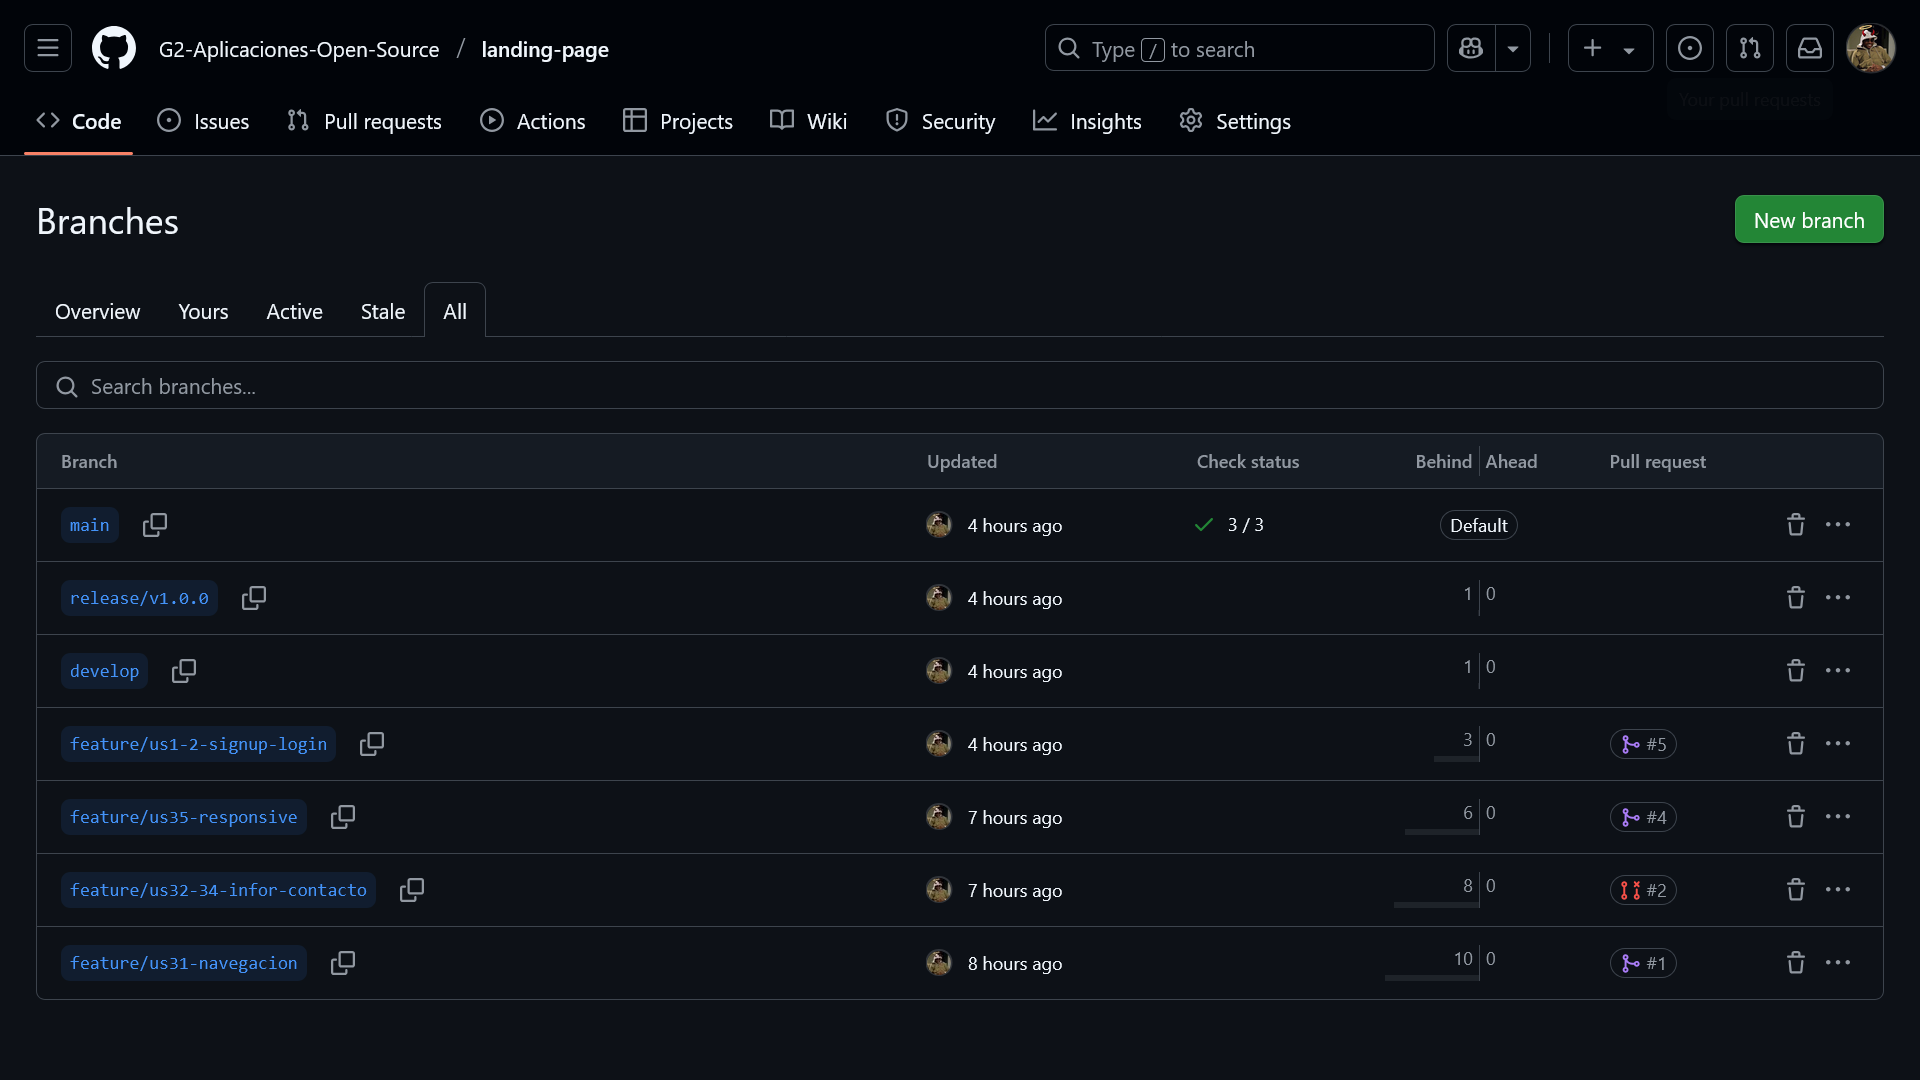
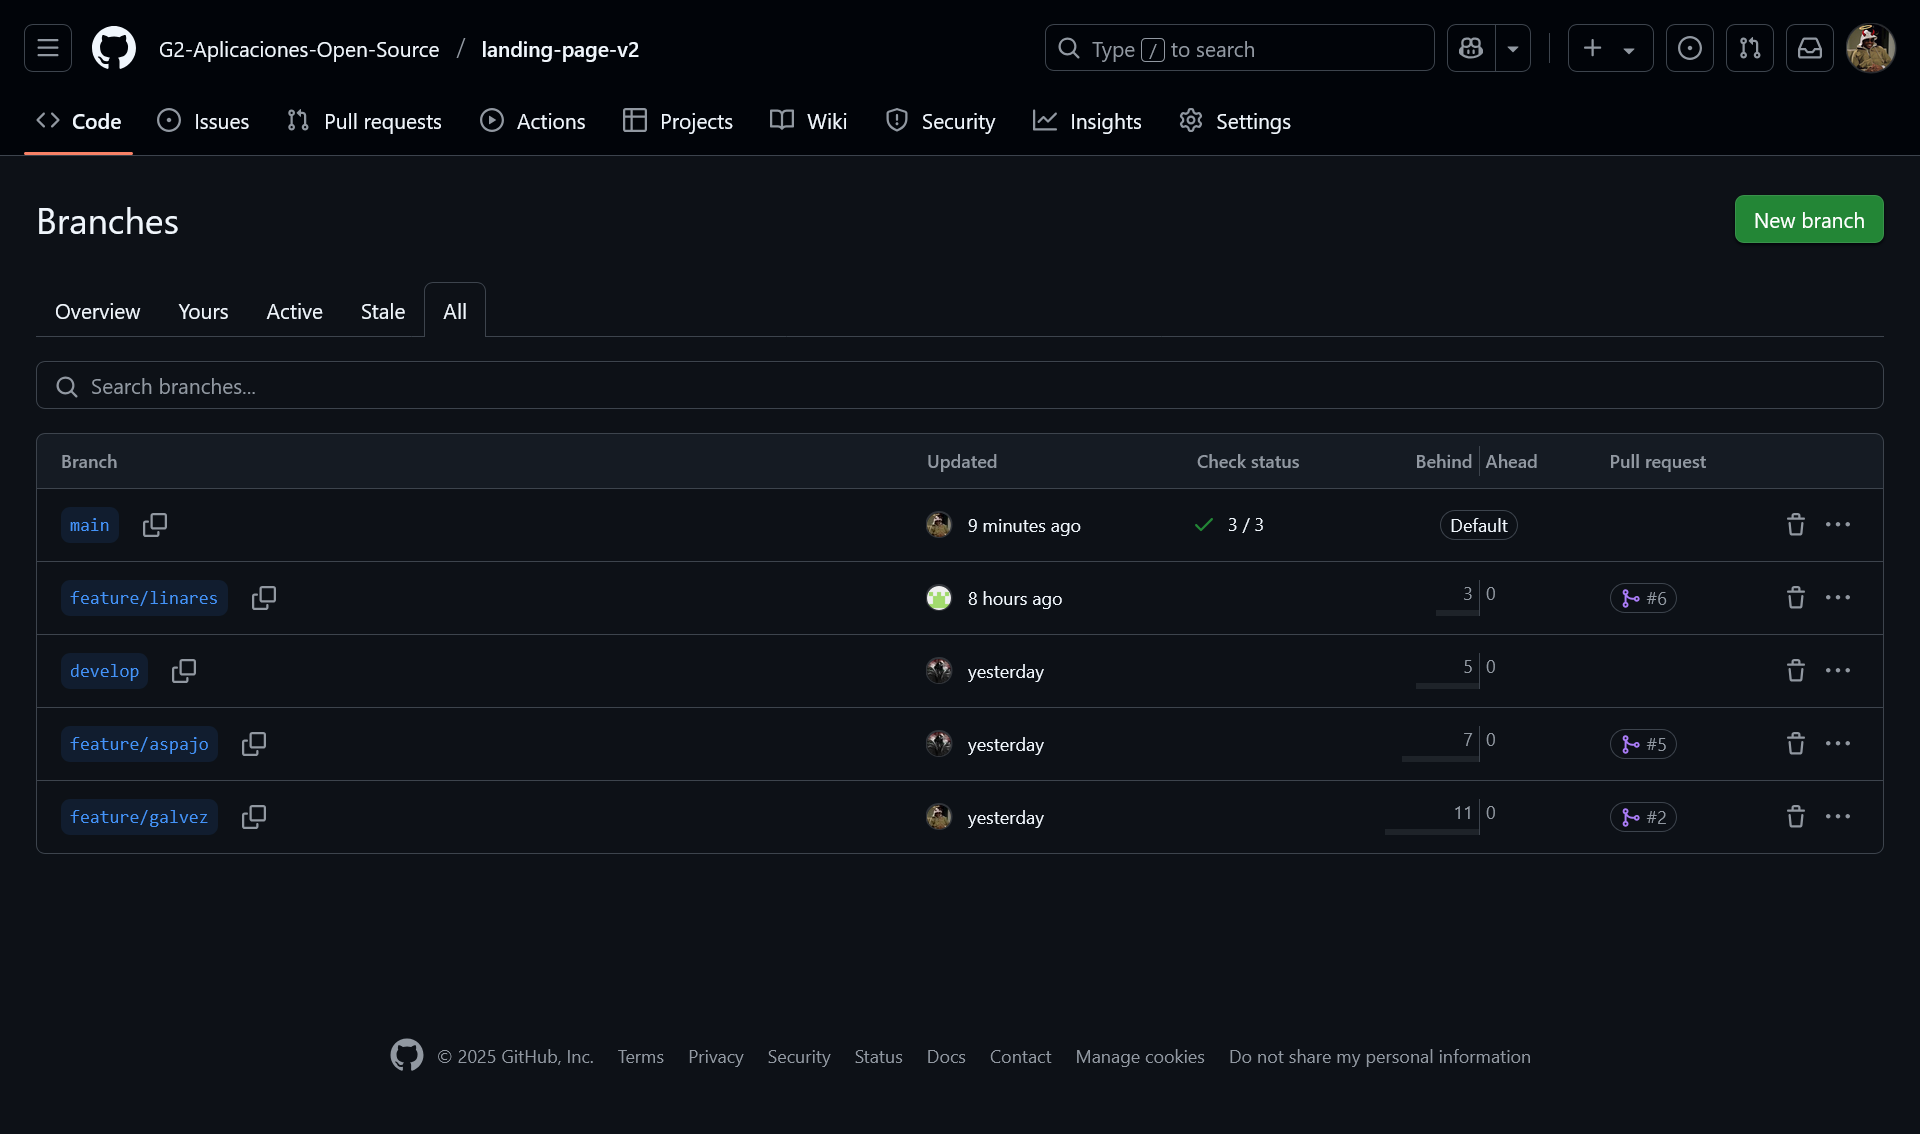
feat: cambios finales TB1

diff --git a/README.md b/README.md
@@ -98,14 +98,17 @@ Nuestro Project Report se encuentra en el siguiente repositorio de GitHub:
             <img src="assets/evidencias/cap3-branch-commits.png" alt="cap3-branch-commits" width=60% >
         </p>
         <p align="center">
-            <img src="assets/evidencias/" alt="cap4-branch-commits" width=60% >
+            <img src="assets/evidencias/cap4-branch-commits.png" alt="cap4-branch-commits" width=60% >
         </p>
         <p align="center">
-            <img src="assets/evidencias/" alt="cap5-branch-commits" width=60% >
+            <img src="assets/evidencias/cap5-branch-commits.png" alt="cap5-branch-commits" width=60% >
         </p>        
         - Analítica del repositorio con participación de todos los miembros:
         <p align="center">
-            <img src="assets/evidencias/repo-members.png" alt="repo-analytics" width=60% >
+            <img src="assets/evidencias/repo-docs-analytics.png" alt="repo-analytics" width=60% >
+        </p> 
+        <p align="center">
+            <img src="assets/evidencias/repo-docs-network.png" alt="repo-network" width=60% >
         </p>        
 
 <hr>
@@ -445,7 +448,7 @@ del turismo personalizado en la plataforma.
 <table><tr>
     <th colspan="2" valign="top"></th>
     <th valign="top">
-      <p>Su startup</p>
+      <p>TravelMatch</p>
       <img src="assets/logos/TravelMatchLogo.png" alt="Logo de TravelMatch" width="100">
     </th>
     <th valign="top">
@@ -621,7 +624,7 @@ _Resumen:_ La entrevistada menciona que en su agencia utilizan principalmente re
 
 _Resumen:_ El entrevistado comenta que utilizan redes sociales como Facebook, Instagram y WhatsApp. También disponen de una página web con optimizaciones limitadas para sus necesidades. Si bien considera útiles estas herramientas, no las percibe como eficientes. Además, señala que uno de los principales desafíos que enfrenta es la confirmación de pagos y la falta de coordinación cuando los clientes dudan en concretar una compra. Asimismo, menciona que le gustaría contar con una plataforma intuitiva que integre funcionalidades de pago, mensajería y análisis de datos, facilitando así la conexión con sus clientes. Finalmente, expresa su disposición a pagar una suscripción para obtener beneficios durante las temporadas de mayor demanda.
 
----
+<!-- ---
 
 **Entrevista 3:**
 
@@ -639,7 +642,7 @@ _Resumen:_ El entrevistado comenta que utilizan redes sociales como Facebook, In
 
 </div>
 
----
+--- -->
 
 <!-- Segmento objetivo 2: TURISTAS NACIONALES E INTERNACIONALES -->
 
@@ -726,6 +729,7 @@ _Resumen:_ El entrevistado, mochilero arequipeño de 21 años, organiza sus viaj
 
 _Resumen:_ El entrevistado, quien por su trabajo viaja con frecuencia a Paracas, Nazca, Chincha e Ica, tiene interés en visitar atractivos turísticos como las Líneas de Nazca, las Islas Ballestas y la Huacachina en su tiempo libre. Para él, la puntualidad del servicio es primordial en una plataforma de gestión de paquetes turísticos. Actualmente, utiliza WhatsApp y Google Maps para organizar sus itinerarios laborales, pero le resulta difícil encontrar tiempo libre. Por ello, valoraría una aplicación que se adapte a sus horarios personales y laborales, brindándole la oportunidad de realizar visitas turísticas. Finalmente, considera crucial la recomendación de otros clientes al elegir una agencia de viajes.
 
+<!-- 
 ---
 
 **Entrevista 8:**
@@ -760,7 +764,7 @@ _Resumen:_ El entrevistado, quien por su trabajo viaja con frecuencia a Paracas,
 |Residencia|xxxxx|
 |Enlace de la entrevista| [cambiar link](https://youtu.be/3z10bH6wOBY)|
 
-</div>
+</div> -->
 
 #### 2.2.3. Análisis de entrevistas
 
@@ -1477,7 +1481,15 @@ Los mock-ups de la Landing Page de TravelMatch representan la traducción visual
 
 #### 4.4.1. Web Applications Wireframes.
 
+<p align="center">
+    <img src="assets/recursos/travelmatch-frontend.png" alt="travelmatch-frontend" width=80%/>
+</p>
+
 #### 4.4.2. Web Applications Wireflow Diagrams
+
+<p align="center">
+    <img src="assets/recursos/travelmatch-frontend-wireflow.png" alt="travelmatch-frontend-wireflow" width=80%/>
+</p>
 
 #### 4.4.3. Web Applications Mock-ups
 
@@ -1600,7 +1612,7 @@ Los repositorios utilizados para el desarrollo de código fuente son los siguien
 
 | Producto Digital | URL del Repositorio | 
 |:----------------:|:-------------------:|
-| Landing Page | [https://github.com/G2-Aplicaciones-Open-Source/landing-page](https://github.com/G2-Aplicaciones-Open-Source/landing-page) | 
+| Landing Page | [https://github.com/G2-Aplicaciones-Open-Source/landing-page-v2](https://github.com/G2-Aplicaciones-Open-Source/landing-page-v2) | 
 | Web Services (Backend API) | [https://github.com/G2-Aplicaciones-Open-Source/backend-java](https://github.com/G2-Aplicaciones-Open-Source/backend-java)|
 | Frontend Web Application | [https://github.com/G2-Aplicaciones-Open-Source/frontend-angular](https://github.com/G2-Aplicaciones-Open-Source/frontend-angular) |
 
@@ -1717,7 +1729,7 @@ Para el desarrollo de los servicios web de TravelMatch, se utilizará **Java 17*
 
 **Frontend: Angular Framework (TypeScript, HTML, CSS)**
 
-Para el desarrollo del frontend, el equipo utilizará **Angular 17**, basado en **TypeScript**, junto con **HTML** y **CSS**. Las convenciones son:
+Para el desarrollo del frontend, el equipo utilizará **Angular 19**, basado en **TypeScript**, junto con **HTML** y **CSS**. Las convenciones son:
 
 - **Guías de estilo base:**  
   - [Angular Style Guide (Oficial)](https://angular.io/guide/styleguide)  
@@ -1797,7 +1809,7 @@ La configuración de despliegue para TravelMatch contempla mecanismos organizado
 **Despliegue del Frontend Web Application**
 
 - **Tecnología:**  
-  Angular 17 (TypeScript, HTML, SCSS/CSS).
+  Angular 19 (TypeScript, HTML, SCSS/CSS).
 
 - **Repositorio GitHub:**  
   [https://github.com/G2-Aplicaciones-Open-Source/frontend-angular](https://github.com/G2-Aplicaciones-Open-Source/frontend-angular) 
@@ -1880,7 +1892,7 @@ En esta parte, mostramos el proceso que seguimos para diseñar y mantener actual
 |` `US33|Conocer la misión de la startup|Dado que accedo a "Sobre nosotros", cuando leo la sección de misión, entonces encuentro al menos 3 valores clave.|
 |` `US34|Contactar al equipo de soporte|Dado que completo el formulario, cuando hago clic en "Enviar", entonces recibo un email de confirmación.|
 
-Demo del Landing Page: [upc-pre-202510-1asi0729-4328-Pandora-landing-navigation-sprint-1 ](https://youtu.be/ijkidI-RlOQ)
+Demo del Landing Page: [upc-pre-202510-1asi0729-4328-Pandora-landing-navigation-sprint-1](https://youtu.be/ijkidI-RlOQ)
 
 ##### 5.2.1.6. Services Documentation Evidence for Sprint Review
 
@@ -1900,7 +1912,7 @@ Durante este Sprint, se llevó a cabo el despliegue de la landing page del proye
 - Activación de GitHub Pages como servicio de despliegue estático, apuntando al contenido de la rama main.
 - Publicación exitosa de la landing page accesible a través de una URL pública.
 
-**URL de la landing page desplegada:** https://g2-aplicaciones-open-source.github.io/landing-page/
+**URL de la landing page desplegada:** https://g2-aplicaciones-open-source.github.io/landing-page-v2/
 
 **Evidencias visuales**
 
@@ -1979,32 +1991,46 @@ Durante este Sprint, el equipo colaboró activamente en el desarrollo de la land
 
     - Mathias Aspajo: Commits relacionados a la vista del login y su hoja de estilo
     <p align="center">
-        <img src="assets/evidencias/" alt="landingv2-commits-mathias"/>    
+        <img src="assets/evidencias/landingv2-commits-mathias.png" alt="landingv2-commits-mathias"/>    
     </p>
 
     - Jorge Guevara: Commits relacionados a las vistas de registro y su hoja de estilo
     <p align="center">
-        <img src="assets/evidencias/" alt="landingv2-commits-jorge"/>    
+        <img src="assets/evidencias/landingv2-commits-jorge.png" alt="landingv2-commits-jorge"/>    
     </p>
 
     - Cesar Linares: Commits relacionados a scripts de la pagina
     <p align="center">
-        <img src="assets/evidencias/" alt="landingv2-commits-cesar"/>    
-    </p>
-
-    - Farid Briceño: Commits relacionados al desarrollo de la vista del index para agencias
-    <p align="center">
-        <img src="assets/evidencias/" alt="landingv2-commits-farid"/>    
-    </p>
-
+        <img src="assets/evidencias/landingv2-commits-cesar.png" alt="landingv2-commits-cesar"/>    
+    </p>   
 
 <hr>
 
 ## Conclusiones
 
+- _Colaboración efectiva del equipo:_
+    La implementación del flujo de trabajo GitHub Flow y GitFlow permitió una colaboración organizada y eficiente entre los miembros del equipo. Cada integrante asumió responsabilidades específicas, lo que facilitó el desarrollo de la landing page y la integración de funcionalidades clave.
+
+- _Desarrollo exitoso de la landing page:_
+    Durante el Sprint 1, se logró implementar una landing page funcional, responsiva y alineada con los objetivos del proyecto. Esto incluye la navegación principal, formularios de contacto, vistas de registro e inicio de sesión, y una estructura visual coherente con la identidad de TravelMatch.
+
+- _Adopción de buenas prácticas de desarrollo:_
+    El uso de convenciones de commits, control de versiones con Git, y estándares de codificación garantizó un código limpio, organizado y fácil de mantener. Además, la estructura modular y el diseño responsivo aseguran una experiencia de usuario óptima en diferentes dispositivos.
+
+- _Despliegue exitoso:_
+    La publicación de la landing page en GitHub Pages permitió validar visualmente los avances del proyecto y establecer un punto de partida sólido para futuras iteraciones. Esto demuestra la capacidad del equipo para gestionar el ciclo completo de desarrollo y despliegue.
+
+- _Enfoque centrado en el usuario:_
+    La arquitectura de información y el diseño de la landing page reflejan un enfoque claro en las necesidades del usuario, priorizando la claridad, accesibilidad y facilidad de navegación. Esto sienta las bases para una experiencia de usuario positiva en el producto final.
+
+- _Lecciones aprendidas:_
+    Durante este Sprint, se identificaron áreas de mejora en la coordinación de tareas y la gestión del tiempo. Estas lecciones serán aplicadas en futuros Sprints para optimizar la productividad y asegurar el cumplimiento de los objetivos del proyecto.
+
 <hr>
 
 ## Bibliografía
+
+- 
 
 <hr>
 
